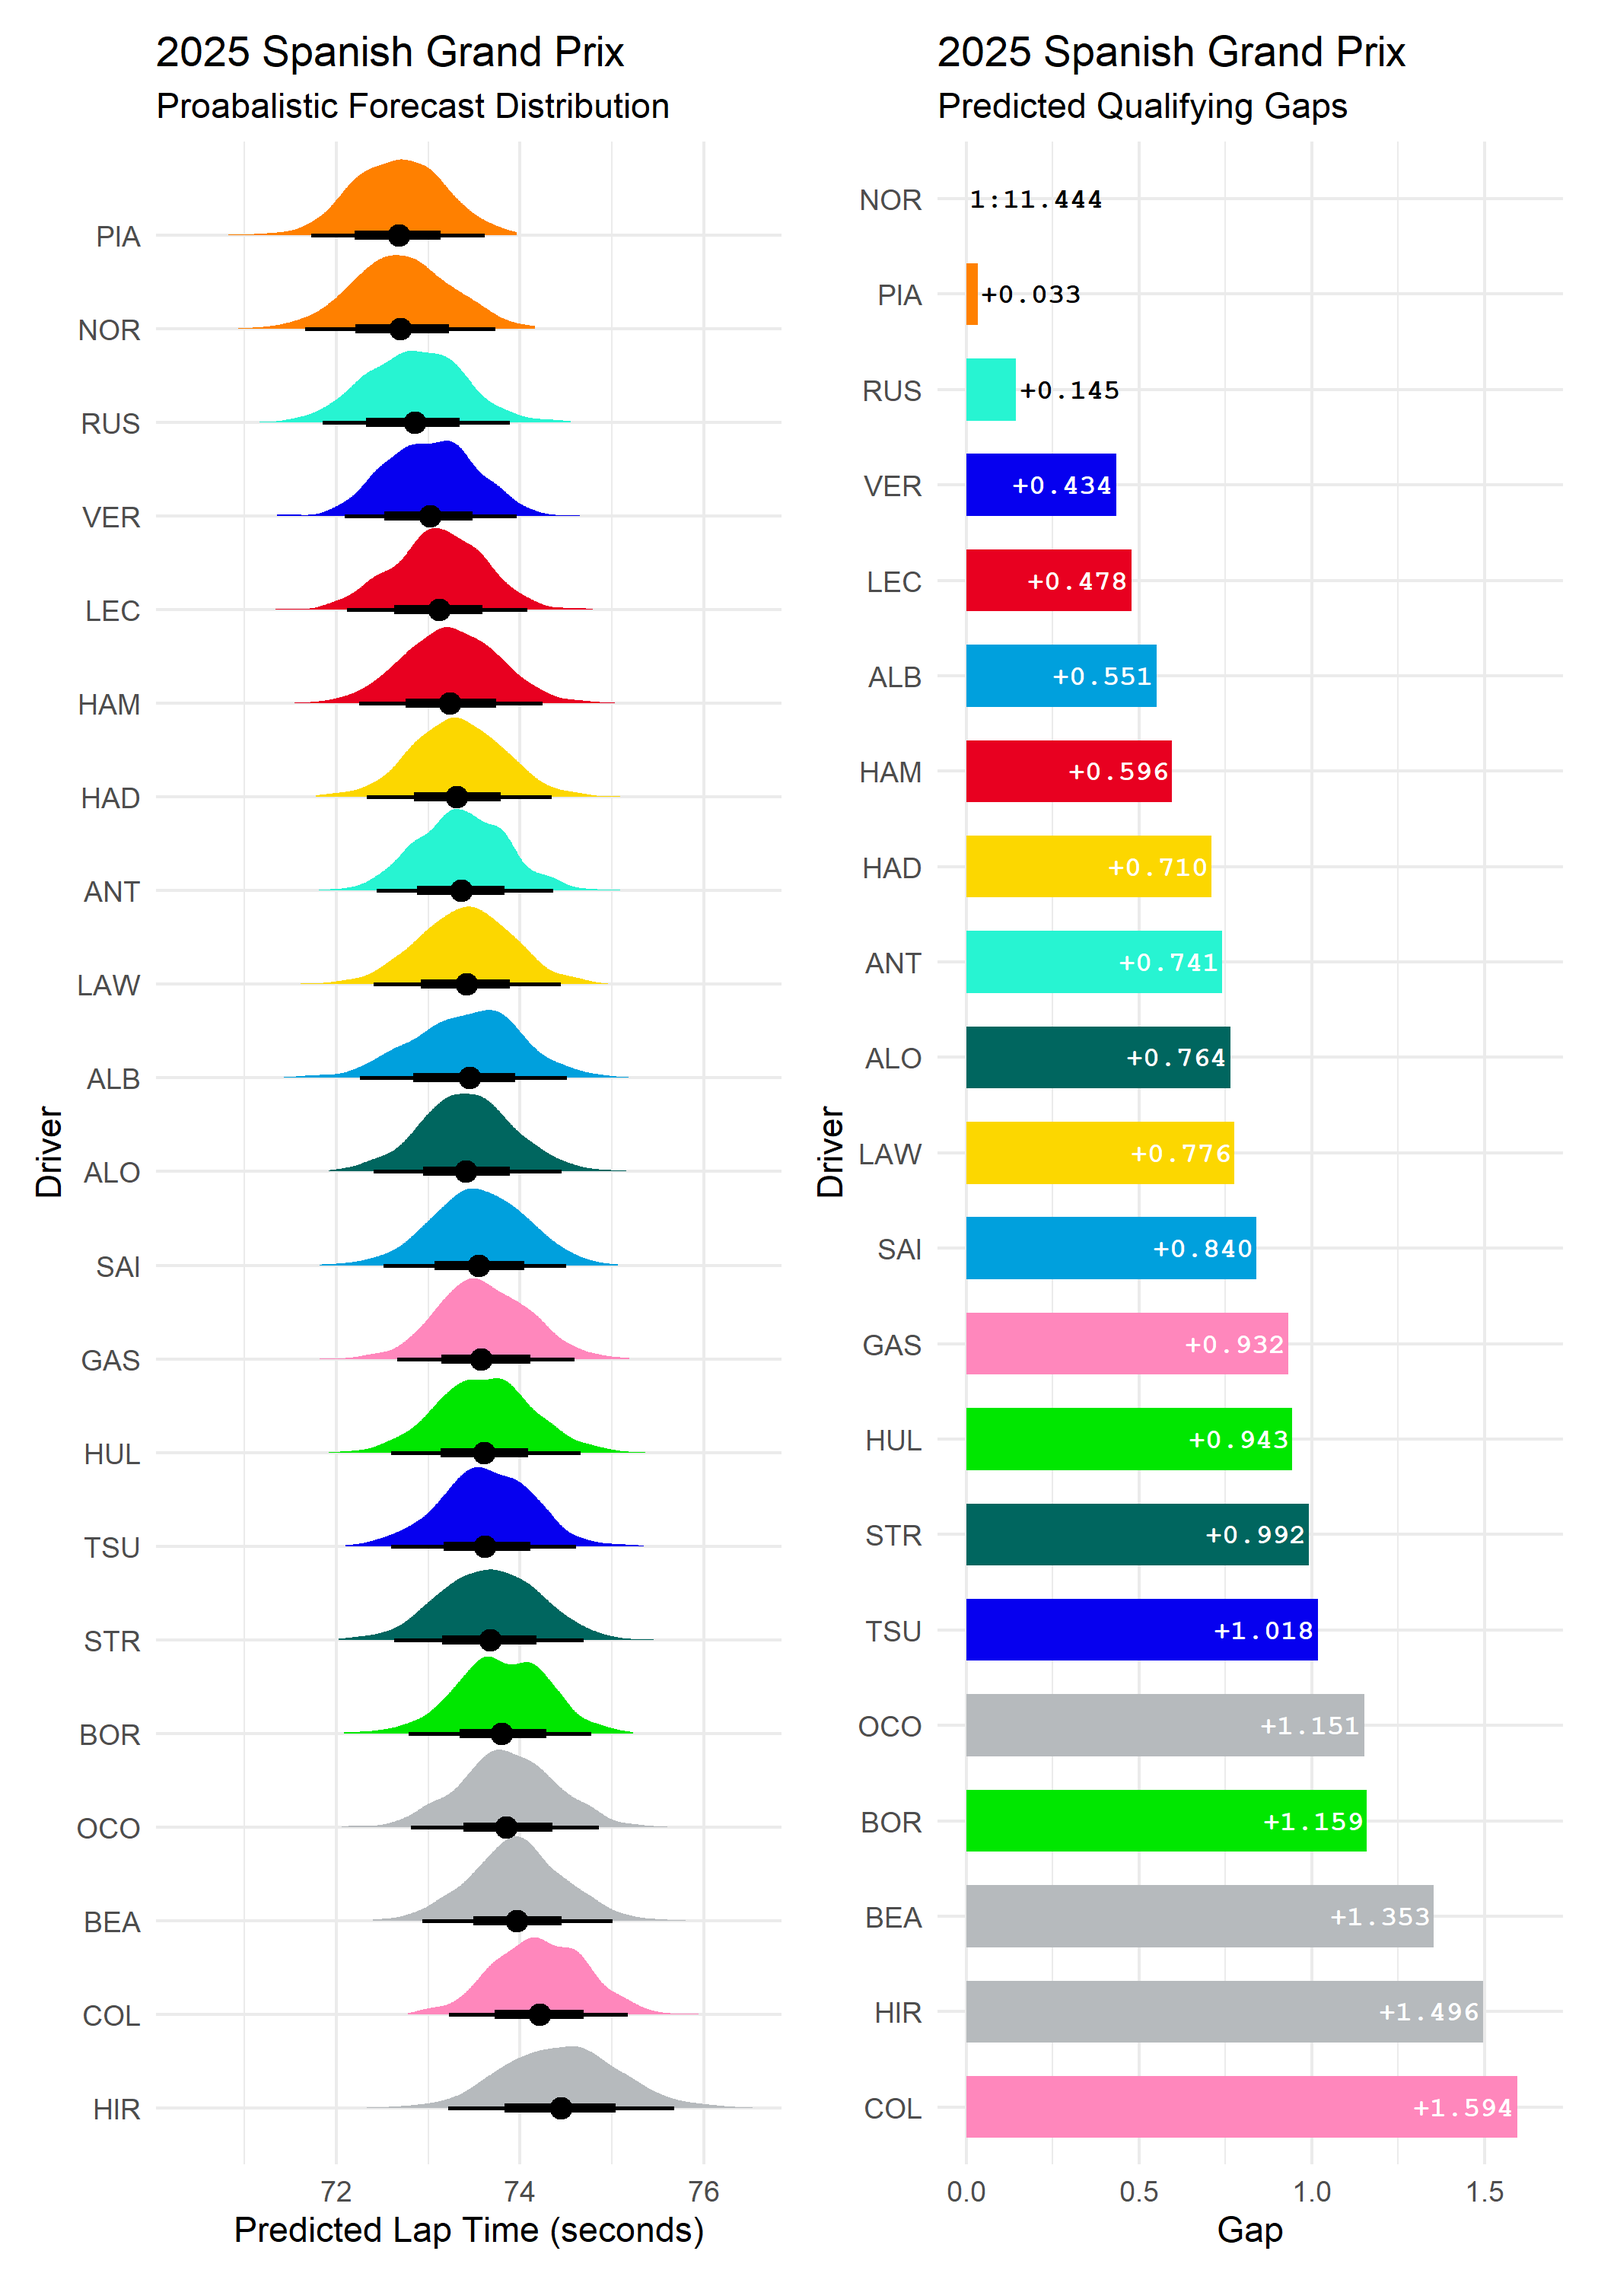
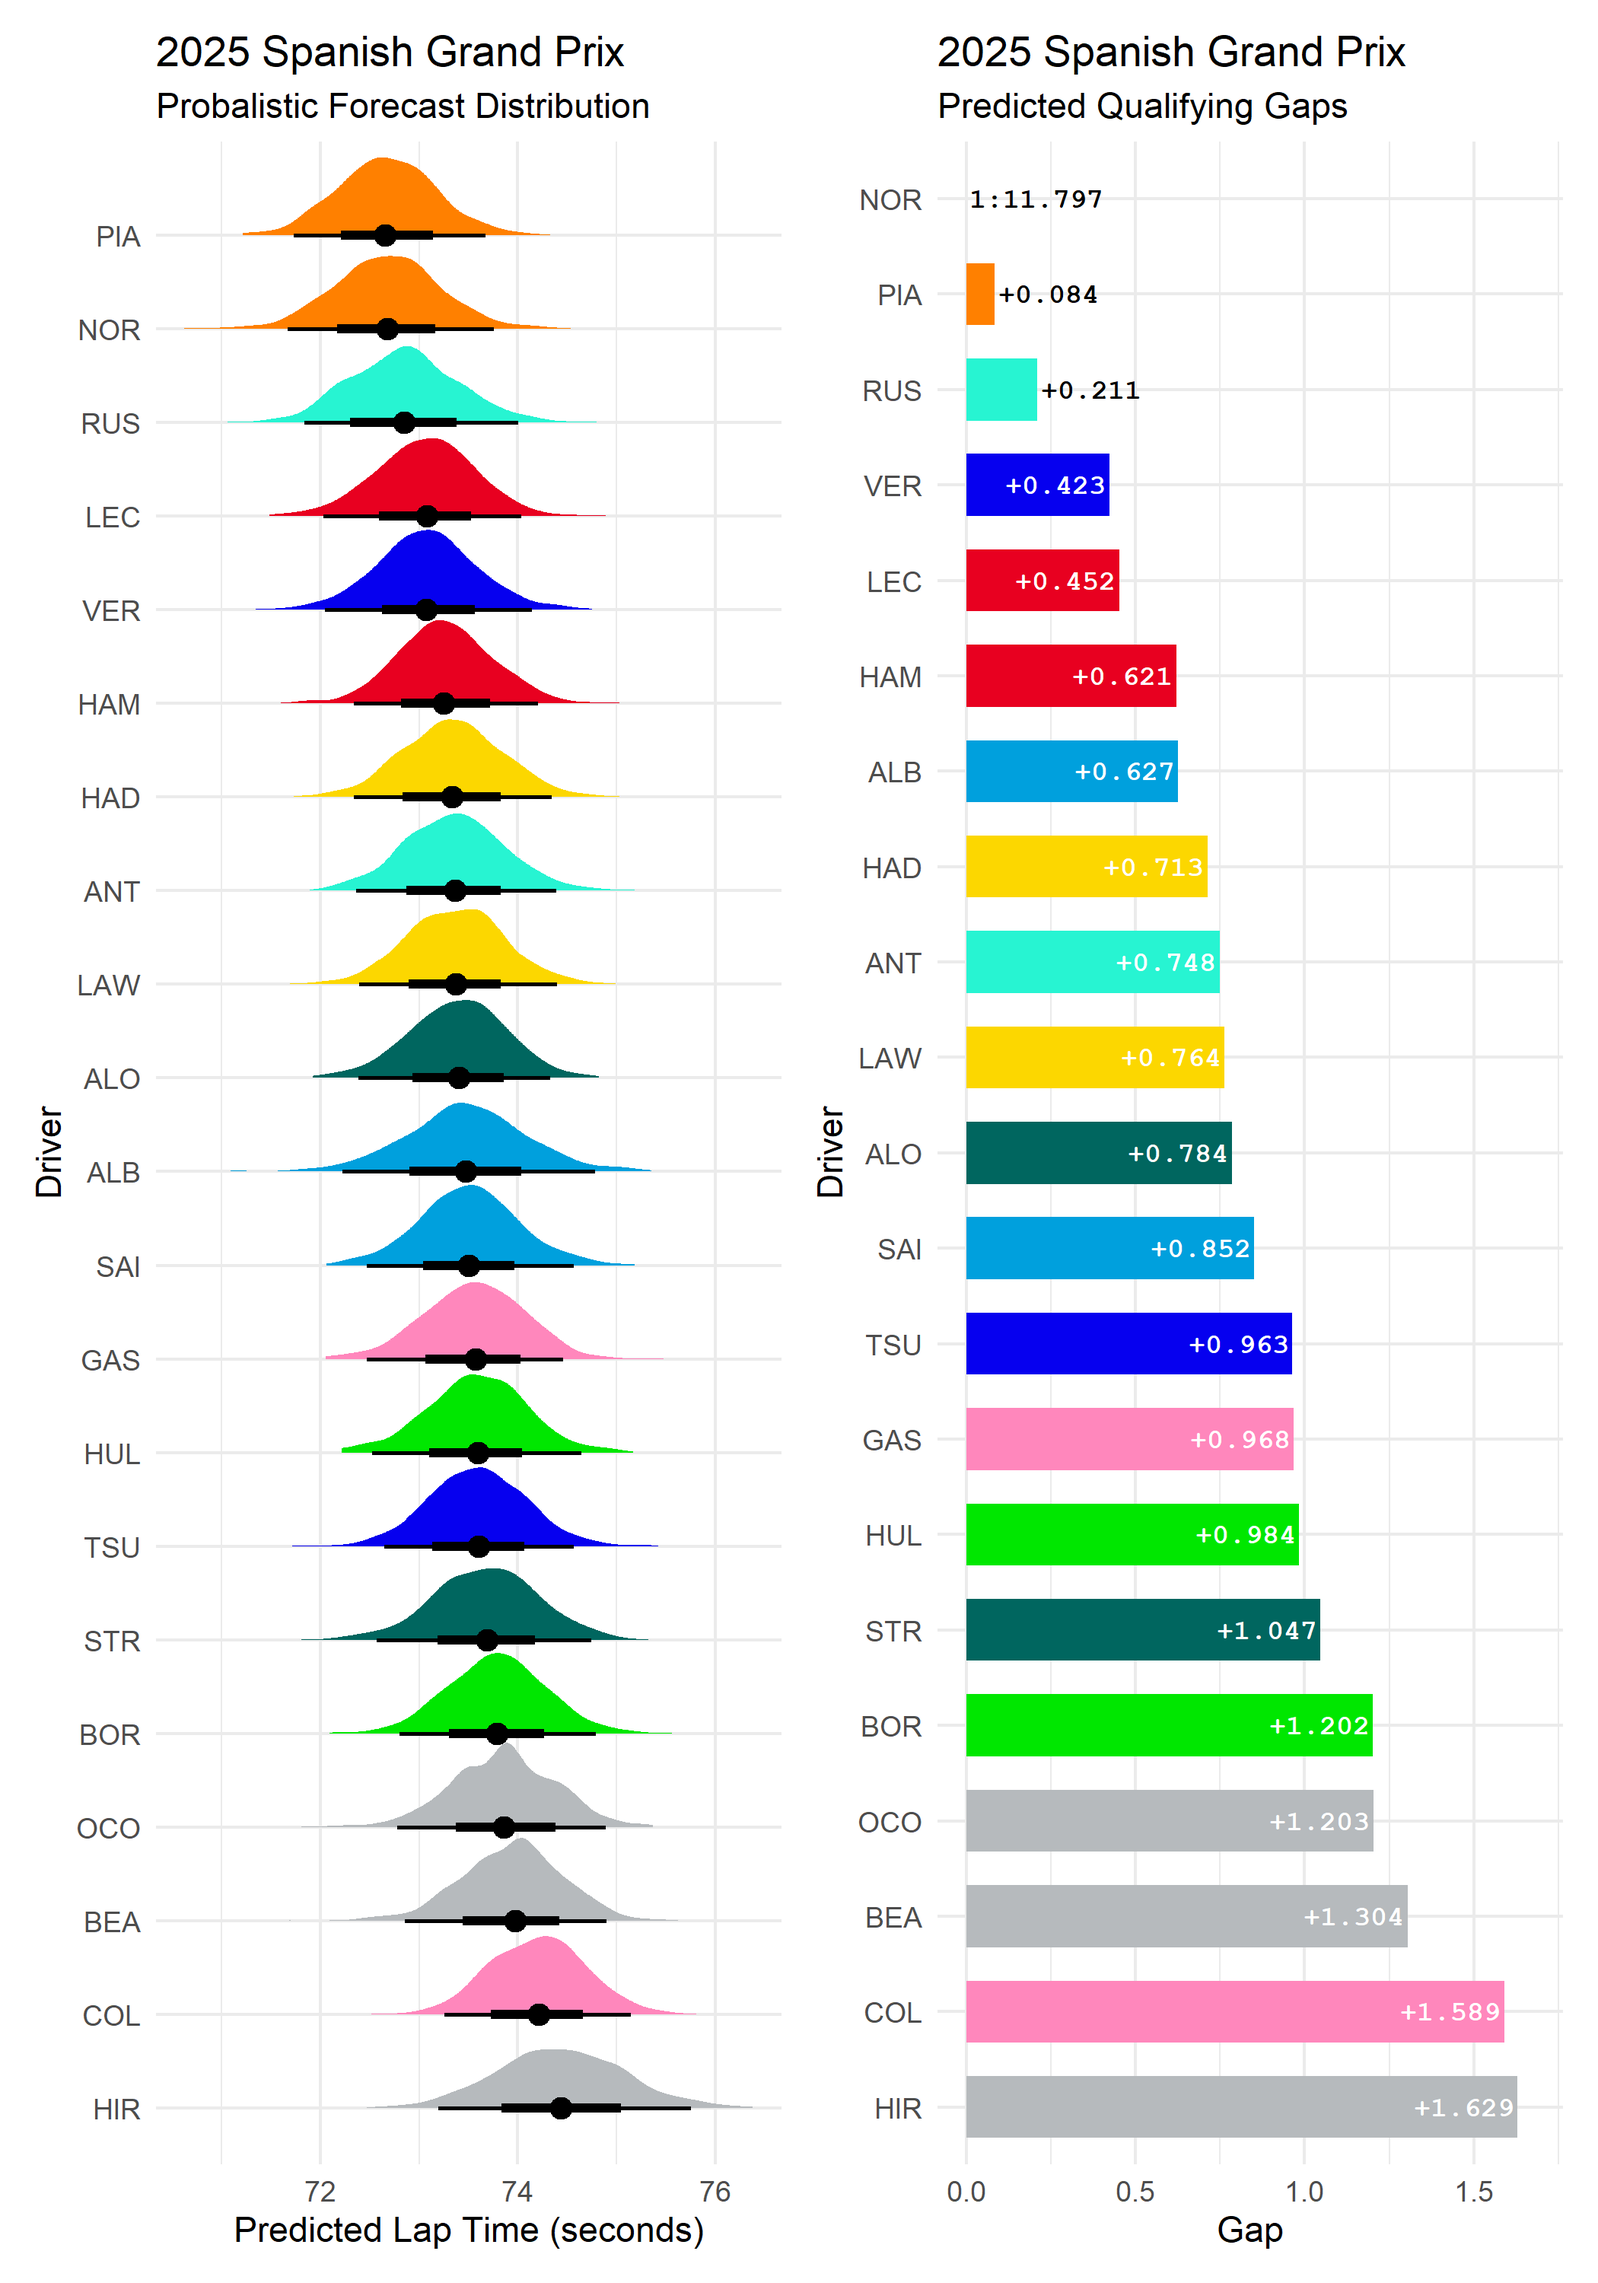
fix workflow errors

diff --git a/docs/vignettes/bayesian_model_vignette.md b/docs/vignettes/bayesian_model_vignette.md
@@ -1,6 +1,6 @@
 Bayesian statistics model methodology
 ================
-Compiled: 2026-04-29
+Compiled: 2026-04-30
 
 This vignette highlights the reasoning and methodology used to generate
 probabilistic qualifying predictions within `laps-of-judgement` via
@@ -115,8 +115,8 @@ The model deploys Markov Chain Monte Carlo (MCMC) algorithms via Stan
 to explore thousands of valid parameter combinations.
 
 The posterior distribution output provides a spectrum of probable lap
-times for each driver. Below, the 1st percentile (`0.01`) of each
+times for each driver. Below, the 1st percentile (`0.05`) of each
 driver’s simulated lap distribution is selected in an attempt mimic the
-optimal lap time achieveable.
+optimal lap time achievable.
 
 <img src="bayesian_model_vignette_files/figure-gfm/plots-1.png" alt="" width="100%" style="display: block; margin: auto;" />
